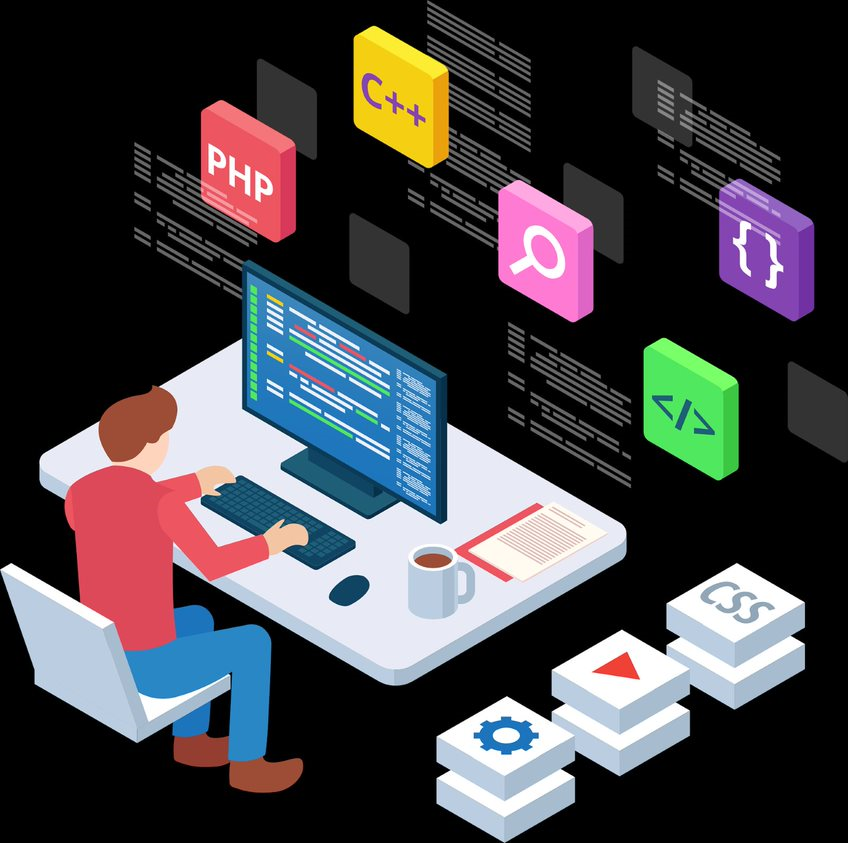
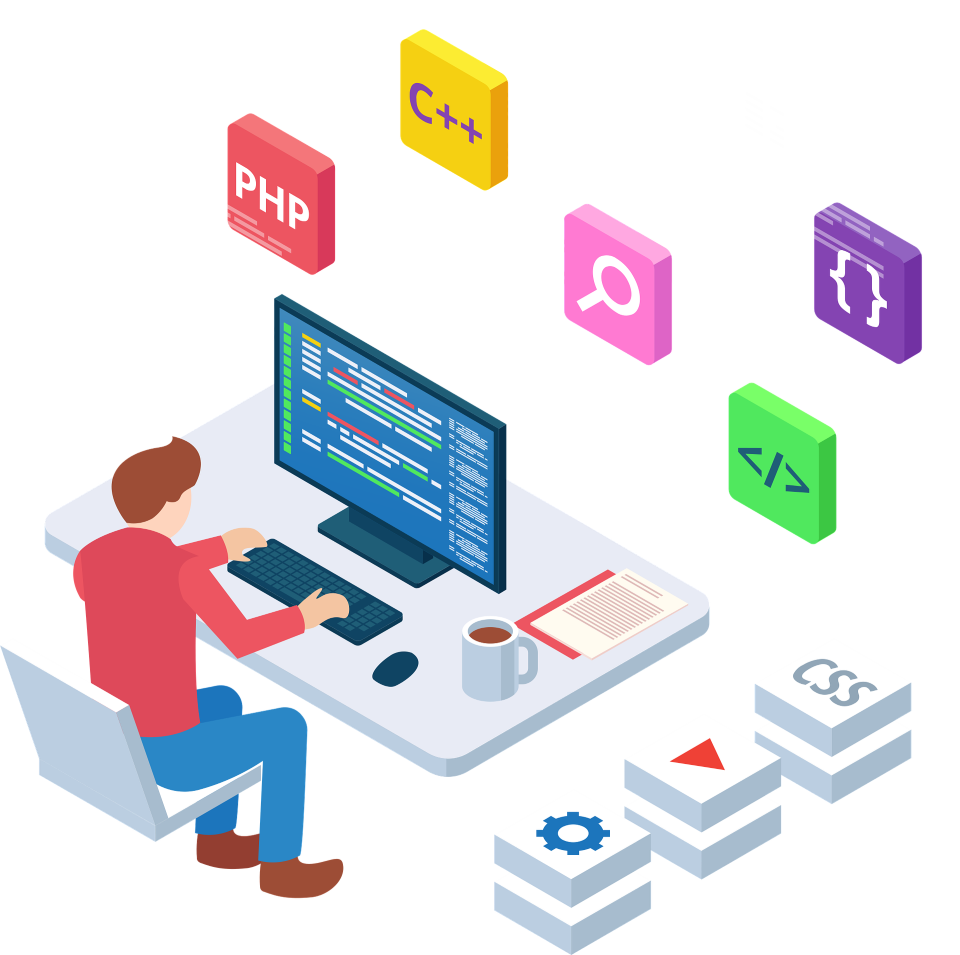
Update Main Page

diff --git a/src/pages/index.tsx b/src/pages/index.tsx
@@ -89,7 +89,7 @@ function Home() {
                             data-aos-delay="50">Solutions</h1>
                         <p className={styles.promoSubtitle}
                             data-aos="zoom-y-out"
-                            data-aos-delay="100">Professional Technology for Ordinary People</p>
+                            data-aos-delay="100">Your Partner for Software and Electronics Development</p>
                     </div>
 
                     <Link
@@ -114,18 +114,23 @@ function Home() {
                     <Container data-aos="fade-up" data-aos-delay="100" className={classnames(styles.features)}>
                         <Row className={classnames("justify-content-md-center")}>
                             <Col>
-                                <img src="/static/img/company.png" />
-                            </Col>
-                            <Col>
-                                <img src="/static/img/customer_pur.png" />
+                                <img src="/static/img/company.png"/>
                             </Col>
                             <Col>
                                 <img src="/static/img/university_or.png" />
                             </Col>
+                            <Col>
+                                <img src="/static/img/customer_pur.png" />
+                            </Col>
                         </Row>
+                    </Container>
+                    <Container data-aos="fade-up" data-aos-delay="100" className={classnames(styles.features)}>
                         <Row className="display-flex padding-vert--md">
                             <Col>
-                                <h2 className="text-center">Trusted by Companies, Universities and other creative minds</h2>
+                                <h2 className="text-center"><b>Trusted by Companies, Universities and Other Creative Minds</b></h2>
+                                <p className="text-center"><b>Since 2019</b> we are working on <b>easy to use software and hardware</b> solutions.
+                                In this time we already worked with big companies and universities. 
+                                But also a lot of different creative minds <b>all over the world</b> are using our solutions.</p>
                             </Col>
                         </Row>
                     </Container>
@@ -136,11 +141,83 @@ function Home() {
                     <Container>
                         <Row>
                             <Col data-aos="fade-right" data-aos-delay="100" className="padding--lg">
-                                <h2>Development</h2>
-                                Lorem ipsum nugget
+                                <h2><b>Software Development</b></h2>
+                                Your partner for all kinds of software development. <br/>
+                                We are specialized on <b>user friendly cross platform software and web design</b>. <br/>
+                                But we can adapt to all customers’ needs and also offer for example <b>app development or firmware development</b> for electronics devices.<br/>
+                                Let us convince you of the quality of our work and visit <b><a href="https://www.vhdplus.com/">vhdplus.com</a></b>.
                             </Col>
-                            <Col data-aos="fade-left" data-aos-delay="100">
-                                <img src="/static/img/Development.png" />
+                            <Col data-aos="fade-left" data-aos-delay="100" >
+                                <img src="/static/img/Development.png"/>
+                            </Col>
+                        </Row>
+                    </Container>
+                </section>
+
+                <section className={styles.part}>
+                    <Container data-aos="fade-up" data-aos-delay="100" className={classnames(styles.features)}>
+                        <Row className={classnames("justify-content-md-center")}>
+                            <Col>
+                                <img src="/static/img/Services2_Elek.png"/>
+                            </Col>
+                            <Col>
+                                <img src="/static/img/Services2_Prog.png" />
+                            </Col>
+                            <Col>
+                                <img src="/static/img/Services2_Lear.png" />
+                            </Col>
+                        </Row>
+                    </Container>
+                    <Container data-aos="fade-up" data-aos-delay="100" className={classnames(styles.features)}>
+                        <Row className="display-flex padding-vert--md">
+                            <Col>
+                                <h2 className="text-center">All-round service from <b>software</b> to <b>electronics</b> development and <b>learning</b> solutions</h2>
+                                Be a part of our existing plug and play electronics development solutions. We help you to make development with your products as easy as possible.
+                            </Col>
+                        </Row>
+                    </Container>
+
+                </section>
+
+                <section className={styles.part}>
+                    <Container>
+                        <Row>
+                            <Col data-aos="fade-right" data-aos-delay="100" className="padding--lg">
+                                <h2><b>Electronics Development</b></h2>
+                                Profit from our experience with plug and play evaluation boards.<br/>
+                                We can cover electronics development, production and can sell the products in our shop.
+                            </Col>
+                            <Col data-aos="fade-left" data-aos-delay="100" >
+                                <img src="/static/img/audio_pcb.png"/>
+                            </Col>
+                        </Row>
+                    </Container>
+                </section>
+
+                <section className={styles.part}>
+                    <Container>
+                        <Row>
+                            <Col data-aos="fade-right" data-aos-delay="100" >
+                                <img src="/static/img/Program.png"/>
+                            </Col>
+                            <Col data-aos="fade-left" data-aos-delay="100" className="padding--lg">
+                                <h2><b>Software Services</b></h2>
+                                Profit from our existing ecosystem and our easy to use IDE. Customers can build a working system with your product in a few clicks and can use our numerous debugging options.
+                                With our system based on FPGAs we find solutions for all kinds of electronics hardware from motors to cameras.  
+                            </Col>
+                        </Row>
+                    </Container>
+                </section>
+
+                <section className={styles.part}>
+                    <Container>
+                        <Row>
+                            <Col data-aos="fade-right" data-aos-delay="100" className="padding--lg">
+                                <h2><b>Learning Solutions</b></h2>
+                                But we don’t stop there and also create documentation and tutorial videos for you, so the customer has the best possible experience while getting started with your device.
+                            </Col>
+                            <Col data-aos="fade-left" data-aos-delay="100" >
+                                <img src="/static/img/youtube.png"/>
                             </Col>
                         </Row>
                     </Container>
